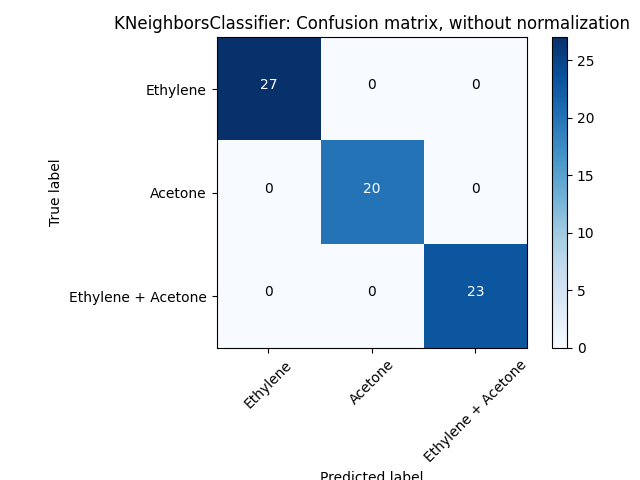
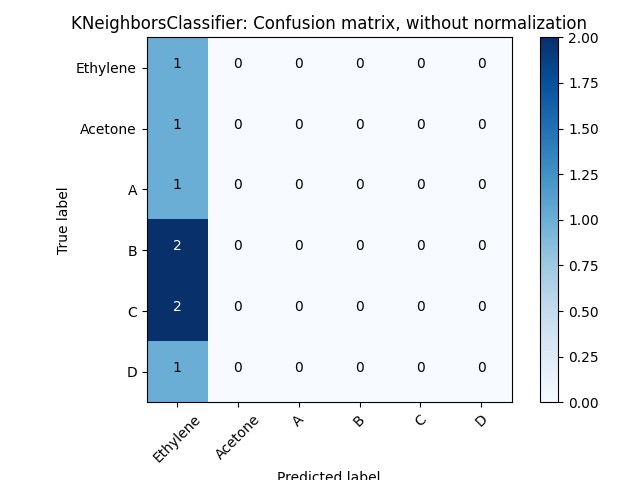
regression models added

diff --git a/models/regression/ridge.py b/models/regression/ridge.py
@@ -1,28 +1,28 @@
 """
-file: svm.py
+file: ridge.py
 author: @VincitoreSi
-date: 2023-12-21
-brief: SVM model for predicting the concentration of the gases
+date: 2023-12-23
+brief: Ridge model for predicting the concentration of the gases
 """
 
 from dependencies.dependencies import *
 from helper import plot_confusion_matrix, lead_and_prepare_data, load_gas_data, load_gas_data_for_regression
 from .basemodel import BaseModel
 
-class SVMRegressionModel(BaseModel):
+class RidgeRegressionModel(BaseModel):
     """
-    SVM model for predicting the concentration of the gases
+    Ridge model for predicting the concentration of the gases
     :param X_train: training data
     :param X_test: testing data
     :param y_train: training labels
     :param y_test: testing labels
-    :return: SVM model
+    :return: Ridge model
     """
 
     def __init__(self, X_train, X_test, y_train, y_test):
         super().__init__(
-            "SVR",
-            SVR(),
+            "BayesianRidge",
+            BayesianRidge(),
             X_train,
             X_test,
             y_train,
@@ -31,17 +31,17 @@ class SVMRegressionModel(BaseModel):
 
 def main():
     """The main function"""
-    X_train, X_test, y_train, y_test = load_gas_data_for_regression("Data/data/expanded_data.csv", 1)
+    X_train, X_test, y_train, y_test = load_gas_data_for_regression("Data/data/expanded_data.csv", 3)
     shape = 1 if len(y_train.shape) == 1 else y_train.shape[1]
     if shape == 1:
-        svm_regression = SVMRegressionModel(X_train, X_test, y_train, y_test)
-        svm_regression.train()
-        svm_regression.test()
+        ridge_regression = RidgeRegressionModel(X_train, X_test, y_train, y_test)
+        ridge_regression.train()
+        ridge_regression.test()
     else:
         for i in range(shape):
-            svm_regression = SVMRegressionModel(X_train, X_test, y_train.iloc[:, i], y_test.iloc[:, i])
-            svm_regression.train()
-            svm_regression.test()
+            ridge_regression = RidgeRegressionModel(X_train, X_test, y_train.iloc[:, i], y_test.iloc[:, i])
+            ridge_regression.train()
+            ridge_regression.test()
 
 if __name__ == "__main__":
     main()

diff --git a/models/regression/sgd.py b/models/regression/sgd.py
@@ -1,28 +1,28 @@
 """
-file: svm.py
+file: sgd.py
 author: @VincitoreSi
-date: 2023-12-21
-brief: SVM model for predicting the concentration of the gases
+date: 2023-12-23
+brief: SGD model for predicting the concentration of the gases
 """
 
 from dependencies.dependencies import *
 from helper import plot_confusion_matrix, lead_and_prepare_data, load_gas_data, load_gas_data_for_regression
 from .basemodel import BaseModel
 
-class SVMRegressionModel(BaseModel):
+class SGDRegressionModel(BaseModel):
     """
-    SVM model for predicting the concentration of the gases
+    SGD model for predicting the concentration of the gases
     :param X_train: training data
     :param X_test: testing data
     :param y_train: training labels
     :param y_test: testing labels
-    :return: SVM model
+    :return: SGD model
     """
 
     def __init__(self, X_train, X_test, y_train, y_test):
         super().__init__(
-            "SVR",
-            SVR(),
+            "SGDRegressor",
+            SGDRegressor(),
             X_train,
             X_test,
             y_train,
@@ -34,14 +34,14 @@ def main():
     X_train, X_test, y_train, y_test = load_gas_data_for_regression("Data/data/expanded_data.csv", 1)
     shape = 1 if len(y_train.shape) == 1 else y_train.shape[1]
     if shape == 1:
-        svm_regression = SVMRegressionModel(X_train, X_test, y_train, y_test)
-        svm_regression.train()
-        svm_regression.test()
+        sgd_regression = SGDRegressionModel(X_train, X_test, y_train, y_test)
+        sgd_regression.train()
+        sgd_regression.test()
     else:
         for i in range(shape):
-            svm_regression = SVMRegressionModel(X_train, X_test, y_train.iloc[:, i], y_test.iloc[:, i])
-            svm_regression.train()
-            svm_regression.test()
+            sgd_regression = SGDRegressionModel(X_train, X_test, y_train.iloc[:, i], y_test.iloc[:, i])
+            sgd_regression.train()
+            sgd_regression.test()
 
 if __name__ == "__main__":
     main()

diff --git a/helper.py b/helper.py
@@ -99,7 +99,7 @@ def load_gas_data(path):
     y = data.iloc[:, -2]
     print(f"X shape: {X.shape}\ny shape: {y.shape}")
     X_train, X_test, y_train, y_test = train_test_split(
-        X, y, test_size=0.1, random_state=1
+        X, y, test_size=0.3, random_state=1
     )
     return X_train, X_test, y_train, y_test
 
@@ -116,10 +116,21 @@ def load_gas_data_for_regression(path, cls):
     print("Loading data...")
     data = pd.read_csv(path)
     data_cls = data[data["GasType"] == cls]
-    data_cls = data_cls.drop(columns=["GasType"], axis=1)
-    data_cls = data_cls.reset_index(drop=True)
-    X = data_cls.iloc[:, :-1]
-    y = data_cls.iloc[:, -1]
+    if cls == 3:
+        # then make extra column for gas conc. separating from '+' in conc. column
+        data_cls = data_cls.drop(columns=["GasType"], axis=1)
+        data_cls['ppm1'] = data_cls['ppm'].apply(lambda x: float(x.split('+')[0]))
+        data_cls['ppm2'] = data_cls['ppm'].apply(lambda x: float(x.split('+')[1]))
+        data_cls = data_cls.drop(columns=["ppm"], axis=1)
+        data_cls = data_cls.reset_index(drop=True)
+        X = data_cls.iloc[:, :-2]
+        y = data_cls.iloc[:, -2:]
+    else:
+        data_cls = data_cls.drop(columns=["GasType"], axis=1)
+        data_cls = data_cls.reset_index(drop=True)
+        X = data_cls.iloc[:, :-1]
+        y = data_cls.iloc[:, -1]
+    print(data_cls.head())
     print(f"X shape: {X.shape}\ny shape: {y.shape}")
     X_train, X_test, y_train, y_test = train_test_split(
         X, y, test_size=0.1, random_state=1
@@ -127,4 +138,4 @@ def load_gas_data_for_regression(path, cls):
     return X_train, X_test, y_train, y_test
 
 if __name__ == "__main__":
-    load_gas_data_for_regression("Data/data/expanded_data.csv", 1)
+    load_gas_data_for_regression("Data/data/expanded_data.csv", 3)

diff --git a/models/regression/elasticnet.py b/models/regression/elasticnet.py
@@ -1,0 +1,47 @@
+"""
+file: elasticnet.py
+author: @VincitoreSi
+date: 2023-12-23
+brief: ElasticNet model for predicting the concentration of the gases
+"""
+
+from dependencies.dependencies import *
+from helper import plot_confusion_matrix, lead_and_prepare_data, load_gas_data, load_gas_data_for_regression
+from .basemodel import BaseModel
+
+class ElasticNetRegressionModel(BaseModel):
+    """
+    ElasticNet model for predicting the concentration of the gases
+    :param X_train: training data
+    :param X_test: testing data
+    :param y_train: training labels
+    :param y_test: testing labels
+    :return: ElasticNet model
+    """
+
+    def __init__(self, X_train, X_test, y_train, y_test):
+        super().__init__(
+            "ElasticNet",
+            ElasticNet(),
+            X_train,
+            X_test,
+            y_train,
+            y_test,
+        )
+
+def main():
+    """The main function"""
+    X_train, X_test, y_train, y_test = load_gas_data_for_regression("Data/data/expanded_data.csv", 2)
+    shape = 1 if len(y_train.shape) == 1 else y_train.shape[1]
+    if shape == 1:
+        elasticnet_regression = ElasticNetRegressionModel(X_train, X_test, y_train, y_test)
+        elasticnet_regression.train()
+        elasticnet_regression.test()
+    else:
+        for i in range(shape):
+            elasticnet_regression = ElasticNetRegressionModel(X_train, X_test, y_train.iloc[:, i], y_test.iloc[:, i])
+            elasticnet_regression.train()
+            elasticnet_regression.test()
+
+if __name__ == "__main__":
+    main()

diff --git a/models/regression/basemodel.py b/models/regression/basemodel.py
@@ -36,13 +36,19 @@ class BaseModel:
         """
         Train the model
         """
+        start = time.time()
         self.model.fit(self.X_train, self.y_train)
+        end = time.time()
+        self.results["train_time"] = end - start
 
     def test(self):
         """
         Test the model
         """
+        start = time.time()
         y_pred = self.model.predict(self.X_test)
+        end = time.time()
+        self.results["test_time"] = end - start
         print(f"Model: {self.name}")
         print(f"Mean Absolute Error: {mean_absolute_error(self.y_test, y_pred):.3f}")
         print(f"Mean Squared Error: {mean_squared_error(self.y_test, y_pred):.3f}")
@@ -51,6 +57,8 @@ class BaseModel:
         print(f"Explained Variance Score: {explained_variance_score(self.y_test, y_pred):.3f}")
         print(f"Max Error: {max_error(self.y_test, y_pred):.3f}")
         print(f"Mean Squared Log Error: {mean_squared_log_error(self.y_test, y_pred):.3f}")
+        print(f"Training Time: {self.results['train_time']:.3f}")
+        print(f"Test Time: {self.results['test_time']:.3f}")
         self.results["MAE"] = mean_absolute_error(self.y_test, y_pred)
         self.results["MSE"] = mean_squared_error(self.y_test, y_pred)
         self.results["MedAE"] = median_absolute_error(self.y_test, y_pred)

diff --git a/models/regression/linear.py b/models/regression/linear.py
@@ -31,10 +31,17 @@ class LinearRegressionModel(BaseModel):
 
 def main():
     """The main function"""
-    X_train, X_test, y_train, y_test = load_gas_data_for_regression("Data/data/expanded_data.csv", 3)
-    linear_regression = LinearRegressionModel(X_train, X_test, y_train, y_test)
-    linear_regression.train()
-    linear_regression.test()
+    X_train, X_test, y_train, y_test = load_gas_data_for_regression("Data/data/expanded_data.csv", 1)
+    shape = 1 if len(y_train.shape) == 1 else y_train.shape[1]
+    if shape == 1:
+        linear_regression = LinearRegressionModel(X_train, X_test, y_train, y_test)
+        linear_regression.train()
+        linear_regression.test()
+    else:
+        for i in range(shape):
+            linear_regression = LinearRegressionModel(X_train, X_test, y_train.iloc[:, i], y_test.iloc[:, i])
+            linear_regression.train()
+            linear_regression.test()
 
 
 if __name__ == "__main__":

diff --git a/models/classification/knn.py b/models/classification/knn.py
@@ -35,8 +35,9 @@ class KNN(BaseModel):
 
 def main():
     """The main function"""
-    X_train, X_test, y_train, y_test = load_gas_data("Data/data/expanded_data.csv")
-    classes = {1: "Ethylene", 2: "Acetone", 3: "Ethylene + Acetone"}
+    X_train, X_test, y_train, y_test = load_gas_data("Data/data/data_update.csv")
+    # classes = {1: "Ethylene", 2: "Acetone", 3: "Ethylene + Acetone"}
+    classes = {1: "Ethylene", 2: "Acetone", 3: "A", 4: "B", 5: "C", 6: "D"}
     knn = KNN(X_train, X_test, y_train, y_test, 14, classes)
     knn.train()
     knn.test()

diff --git a/dependencies/dependencies.py b/dependencies/dependencies.py
@@ -43,7 +43,6 @@ from sklearn.linear_model import SGDRegressor
 from sklearn.svm import SVR
 from sklearn.linear_model import BayesianRidge
 from sklearn.linear_model import LinearRegression
-# from xgboost import XGBRegressor
 
 from sklearn.metrics import (
     mean_absolute_error,

diff --git a/README.md b/README.md
@@ -1,18 +1,22 @@
-# ElectronicNoseSystem
-This repository contains my work for my B.Tech Project that is designing Electronic Nose System for Gas Sensor Array data. Project contain developing full pipeline which contains these steps primarily 
+# ElectronicNoseSystem [Link](https://electronic-nose-sytem.streamlit.app/)
+
+This repository contains my work for my B.Tech Project that is designing Electronic Nose System for Gas Sensor Array data. Project contain developing full pipeline which contains these steps primarily
 <!-- list -->
 1. Collecting the data in the lab from sensors
-2. Uploading the data on thingsPeak using ResbherryPi in real time
+2. Uploading the data on thingsPeak using RaspberryPi in real time
 3. Analyzing data features using PCA, LDA and t-SNE plots etc.
 4. Applying various Machine Learning approaches as well as Deep Learning algorithms on the data to classify the gases present in the mixture from sensors value
 5. Using Regression based approaches predicting the concentration for the present gases in mixture.
-6. Developing the API for automation of the whole process and real time visualization as well as prediction from the sesors value.
+6. Developing the API for automation of the whole process and real time visualization as well as prediction from the sensors value.
 <!-- listend -->
 
-# Applying Different Scikit-learn and Keras Based Classifiers on Gas Sensor Dataset
+## Applying Different Scikit-learn and Keras Based Classifiers on Gas Sensor Dataset
+
 In this project, I collected two open source datasets and applied different machine learning classification techniques using python based Scikit-learn and Keras libraries. Response of various metal oxide gas sensors were collected while they were exposed to different gas mixtures. The aim is to find out and classify the individual gas components in the mixtures. In order to do so, various supervised machine learning classifiers were applied and their performance were compared.
+
 ## Dataset Description
-Two different datasets were used in this project- One is for binary classification and anothere is for multi-class classification purpose. Both of them were collected from UCI machine learning repository. For a generalized overview of the dataset and different attribute information, head over to the associated links below-
+
+Two different datasets were used in this project- One is for binary classification and another is for multi-class classification purpose. Both of them were collected from UCI machine learning repository. For a generalized overview of the dataset and different attribute information, head over to the associated links below-
 
 * [Gas sensor array under dynamic gas mixtures Data Set (Binary Classification)](http://archive.ics.uci.edu/ml/datasets/gas+sensor+array+under+dynamic+gas+mixtures)
 * [Gas Sensor Array Drift Dataset Data Set (Multi-class Classification)](https://archive.ics.uci.edu/ml/datasets/gas+sensor+array+drift+dataset)
@@ -21,9 +25,11 @@ For classification purpose, I pre-processed and made the datasets simpler. The m
 [Dataset](https://drive.google.com/drive/folders/1gJy8f3twHl9rANqUMcxG1YMxvbV-cijN?usp=sharing)
 
 ## Data Processing Workflow
-On both datasets, PCA and t-SNE dimension reduction techniques were applied in order to plot and visualize the relationships between different attributes.The same workflow was followed and the same classifiers were applied on both of the datasets. I applied 10 classical classifiers( non-neural network based) and 1 keras based vanilla neural network classifier. 
+
+On both datasets, PCA and t-SNE dimension reduction techniques were applied in order to plot and visualize the relationships between different attributes.The same workflow was followed and the same classifiers were applied on both of the datasets. I applied 10 classical classifiers( non-neural network based) and 1 keras based vanilla neural network classifier.
 
 ### Classical Classifiers
+
 1. K-Nearest Neighbor (KNN)
 2. Support Vector Machine (SVM)
 3. Gaussian Multinomial Naive Bayes (MultinomialNB)
@@ -36,4 +42,5 @@ On both datasets, PCA and t-SNE dimension reduction techniques were applied in o
 10. Majority Voting Ensemble Machine
 
 ### Neural Network Based Classifier
-I also created a 4 layered neural network architecture with 2 hidden layers for classification. The same network was used for both the binary and multi-class classification purposes. 
+
+I also created a 4 layered neural network architecture with 2 hidden layers for classification. The same network was used for both the binary and multi-class classification purposes.
